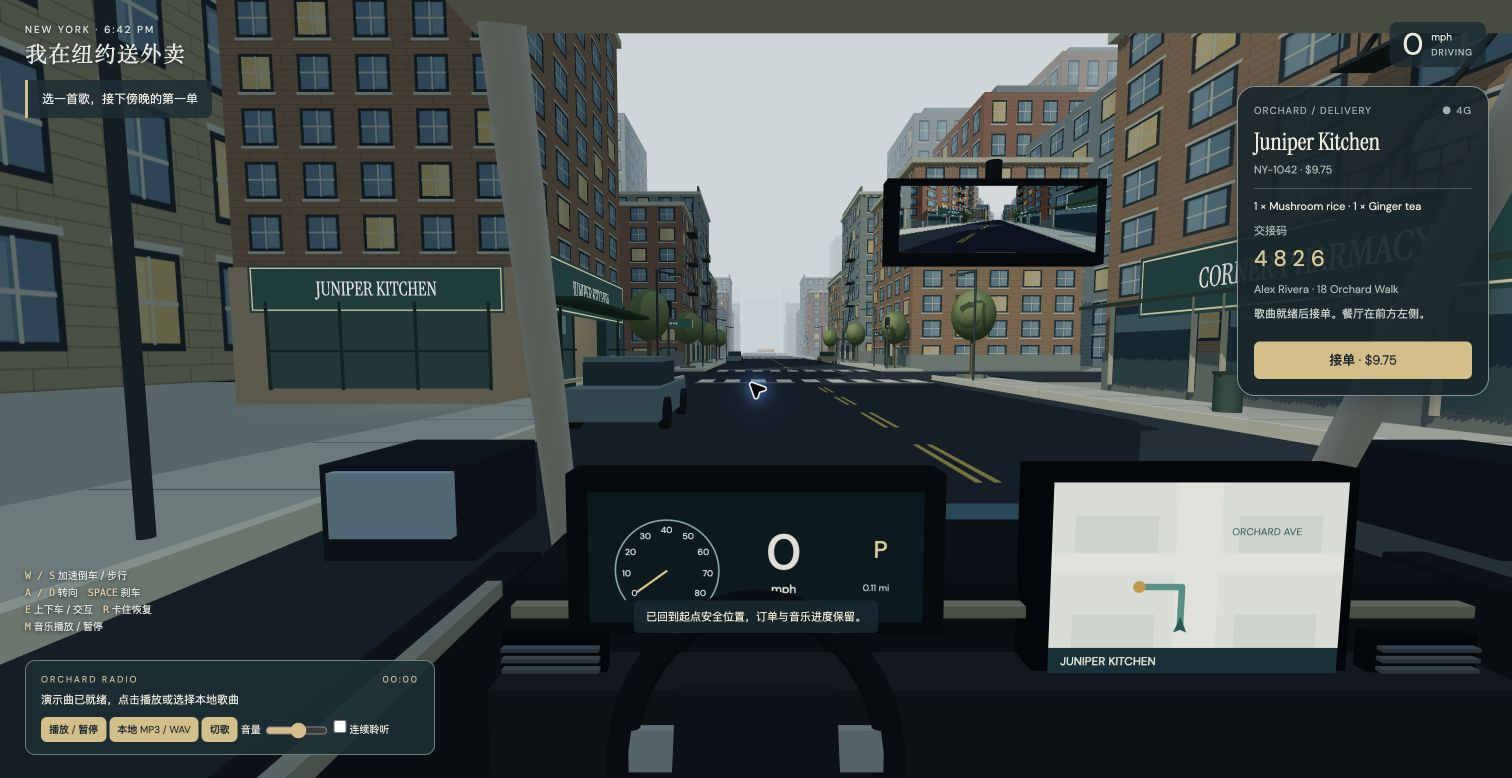
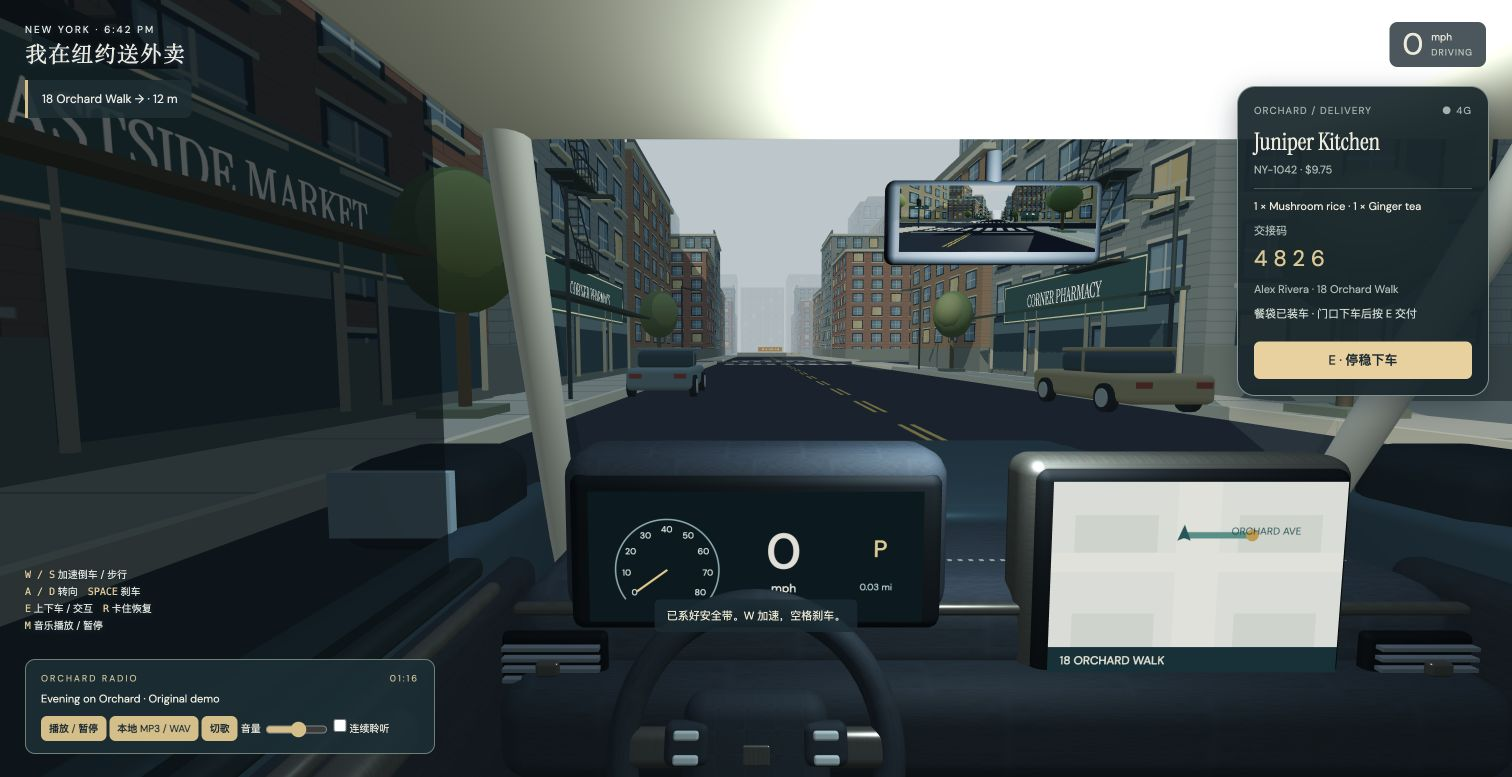
docs: record camera regression and refined cabin validation

diff --git a/docs/VALIDATION.md b/docs/VALIDATION.md
@@ -63,7 +63,7 @@
 - 编辑器内后视镜曾为黑屏。核查 3.8.8 安装包代码，原生预览会重定向场景摄像机的渲染窗口。现对后视摄像机保留其 RenderTexture 目标，编辑器内实际显示后方街景。
 - 最新编辑器预览实际完成音乐播放、接单、驾驶、刹停、下车和再次上车。诊断位置从 z=23 移至约 z=18.76。
 
-人物、车窗与停放车辆仍使用简化几何。长时间驾驶、更多硬件和浏览器、移动端与原生发布平台尚待测试。
+人物与远景建筑仍使用简化造型。长时间驾驶、更多硬件和浏览器、移动端与原生发布平台尚待测试。
 
 ## 性能
 
@@ -98,3 +98,22 @@
 ```bash
 node tests/driver-camera.integration.mjs .local/camera-before.txt
 ```
+
+驾驶镜头现为车辆节点的子节点，驾驶位固定在车体局部坐标 (-0.43, 1.48, 0.30)，俯角为 -4°。步行时将摄像机移回场景节点，并从当前世界位姿过渡至步行视点。初始车身先同步至起点，装车餐袋也绑定车体局部坐标。
+
+在真实 Cocos 预览中复测持续加速、约 29 mph 行驶、转向、刹车、倒车、下车、再次上车与 R 恢复。DRIVING 模式下，Seat drift / Seat yaw 的当前值和峰值均显示 0.0000。原先失败的集成检查通过。车外步行时当前相对车座距离随人移动，峰值统计仅采集车内状态。
+
+daa5409 的发布版也实际完成一单，结果为 $9.75、54 m、90 s。包含进店取餐、装车、第二段驾驶、下车取袋与送达。该次驾驶诊断的车座位置和角度峰值均为 0.0000，集成检查通过，浏览器 warning/error 为空。
+
+```bash
+node tests/driver-camera.integration.mjs .local/camera-final-native.txt
+node tests/driver-camera.integration.mjs .local/camera-final-published.txt
+```
+
+本轮车厢细化包括空心车身、圆角曲面、连续边缘法线、皮纹与拉丝材质、座椅缝线、方向盘按钮与转向柱、玻璃与车窗围合、按车速旋转的车轮、近景车辆、窗台与消防梯。驾驶位和内饰随车厢比例下调 0.20 m。发布版送单过程中约 60 FPS、p95 约 17.5—17.6 ms。Cocos 编辑器录像期间约 55.7—58.3 FPS、p95 约 18.3—22.1 ms。
+
+本轮原始日志与诊断文本留在 .local。daa5409 在独立工作树 .local/driver-camera-clean 从无生成缓存状态重新导入构建，退出码 36，工作树保持干净。
+
+该工作树产物通过本机 127.0.0.1:7461 实际加载三维驾驶舱、透明玻璃、仪表、导航与后视画面，浏览器 warning/error 为空，验证页随后关闭。
+
+新增镜头验证录像为 .local/media/driver-camera-fixed.mp4，连续 30 秒、822 × 462、H.264，画面包含实际加速、转向、刹车、倒车及 F3 诊断。录像裁去编辑器面板，仅保留游戏区域。该段镜头录像为静音。此前的 65 秒有声送单录像仍保存在本机 delivery-v01.mp4。

diff --git a/docs/ASSETS.md b/docs/ASSETS.md
@@ -4,6 +4,7 @@
 
 - World.ts 生成街道、建筑、柜台、人物、餐袋与门口。CarModel.ts 生成自制轿车车身、圆形车轮、车厢、方向盘、仪表和中控。ModelGeometry.ts 复用网格、材质，并按材质合并静态几何。比例单位为米，固定傍晚配色。自制几何与配色可在本项目及衍生作品中使用、修改与分发。
 - 招牌、砖墙窗框、仪表、导航与天空渐变由浏览器 Canvas 绘制。仪表与导航读取真实车辆和订单状态，后视镜使用当前场景的 RenderTexture 摄像机。餐厅、顾客、地址及订单为虚构内容。
+- 仪表台、方向盘、座椅、车门、车身及近景车辆采用自制圆角网格与连续边缘法线。皮纹和拉丝纹理由确定性 Canvas 像素生成，玻璃使用引擎透明材质。车轮按车速转动，方向盘绕倾斜转向柱旋转。几何按部件合并后随各自父节点运动。
 - Evening on Orchard 是本轮编写 scripts/generate-music.py 生成的原创合成演示音乐，96 秒循环，MP3 96 kbps。和弦、旋律与音色均由脚本生成。该曲及生成脚本中的音乐素材按 CC0-1.0 提供，可公开分发与修改。来源为本仓库，使用条件见 [CC0 1.0](https://creativecommons.org/publicdomain/zero/1.0/)。
 - 交互提示音为 MusicPlayer.ts 中实时合成的短正弦音，同样按 CC0-1.0 提供。
 - 玩家选取的本地文件通过 File 与 blob URL 在浏览器内播放。程序无上传流程，文件不加入工程资源和 Git。

diff --git a/docs/PLAN.md b/docs/PLAN.md
@@ -52,6 +52,8 @@
 
 2026-11-14 已验证本机与空远端，main 基线已推送。Dashboard 下载失败在原入口复现，官方 3.8.8 完整包已验证并独立安装，已通过 Dashboard 导入本地编辑器与 game。发布构建已在同一实例中连续完成两单，本地音频选择与错误恢复已实测。三张发布版截图及 65 秒有声录屏已保存。完成驾驶舱细化、连续街景与远景雾效，当前可活动街道约 300 m。干净工作树重新导入、构建与浏览器运行通过。障碍旁改用副驾驶侧下车、围挡碰撞和恢复入口已实测。Draft PR 为 #1，进一步复测状态见 VALIDATION.md。
 
+驾驶镜头反馈后，已将镜头绑定到车体驾驶位，实测加速、刹车、倒车、转向及重新上车的驾驶位相对偏移。同步细化车厢曲面、材质、玻璃和近景车辆，发布版再次完整送达一单，具体结果见 VALIDATION.md。
+
 ## 参考附件
 
 本机会话附件目录未发现 NYC_Delivery_Technical_Research_v0.1.pdf。当前设计依据用户提供的完整任务文本。

diff --git a/CHANGELOG.md b/CHANGELOG.md
@@ -2,6 +2,10 @@
 
 ## v0.1 开发中 · 2026-11-14
 
+- 修复驾驶镜头在世界坐标插值追车造成的加速后移，固定驾驶位随车身同步平移和转向，初始化同步车辆位置。
+- 加入真实预览的驾驶位偏移诊断与集成检查，回归加速、刹车、倒车、转向、上下车和恢复起点。
+- 车厢增加曲面倒角、皮纹与拉丝材质、座椅缝线、方向盘按钮、玻璃和柔和补光。车身及近景车辆增加曲面，车轮与方向盘加入旋转反馈。
+- 细化近景窗台和消防梯，提升近处阴影精度，按部件局部变换合并静态几何。
 - 初始化 main 基线与 codex/bootstrap-delivery-demo 开发分支。
 - 复现 Dashboard 2.2.2 的 Creator 3.8.8 下载失败，取得未登录导致 CDN 地址获取失败的日志。
 - 获取并验证官方 Creator 3.8.8 完整包，使用独立用户安装目录运行工程。

diff --git a/README.md b/README.md
@@ -6,6 +6,8 @@
 
 驾驶舱有实时 mph 仪表、中控导航与后视画面。街道延续至远处楼群，当前可活动路段约 300 m。
 
+驾驶镜头固定在车内驾驶位，与车身同步移动和转向。仪表台、方向盘、座椅和车门采用细化曲面与材质，F3 可查看驾驶位偏移诊断。
+
 ![发布版驾驶舱实机画面](docs/media/cockpit-refined.jpg)
 
 ## 打开工程
